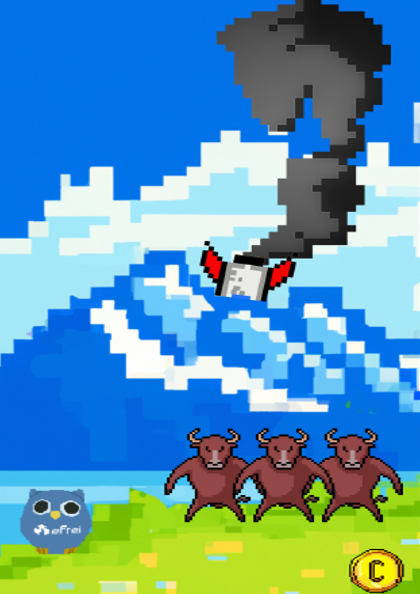
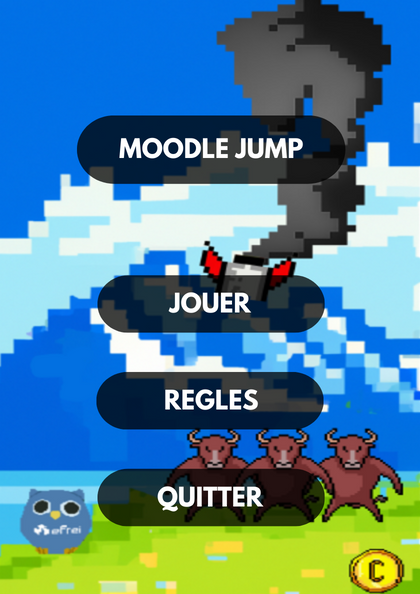
Ethan : menu

diff --git a/drawers.py b/drawers.py
@@ -11,6 +11,7 @@ def draw_menu(self):
     background = pygame.image.load('assets/menu.png')
     background = pygame.transform.scale(background, (constants.SCREEN_WIDTH, constants.SCREEN_HEIGHT))
 
+
     # Affichage de l'arrière-plan
     self.screen.blit(background, (0, 0))
 
@@ -32,14 +33,8 @@ def draw_menu(self):
         center=(SCREEN_WIDTH / 2, 5 * SCREEN_HEIGHT / 6))
     # Créer un rectangle pour cliquer sur le crédit
     self.credit_rect = credit.get_rect(
-        center=(SCREEN_WIDTH - 30, SCREEN_HEIGHT - 20)
+        center=(SCREEN_WIDTH - 33, SCREEN_HEIGHT - 20)
     )
-
-    # Dessiner les textes sur l'écran
-    self.screen.blit(title, self.title_rect)
-    self.screen.blit(play, self.play_rect)
-    self.screen.blit(rules, self.rules_rect)
-    self.screen.blit(quit, self.quit_rect)
 
     pygame.display.flip()
 
